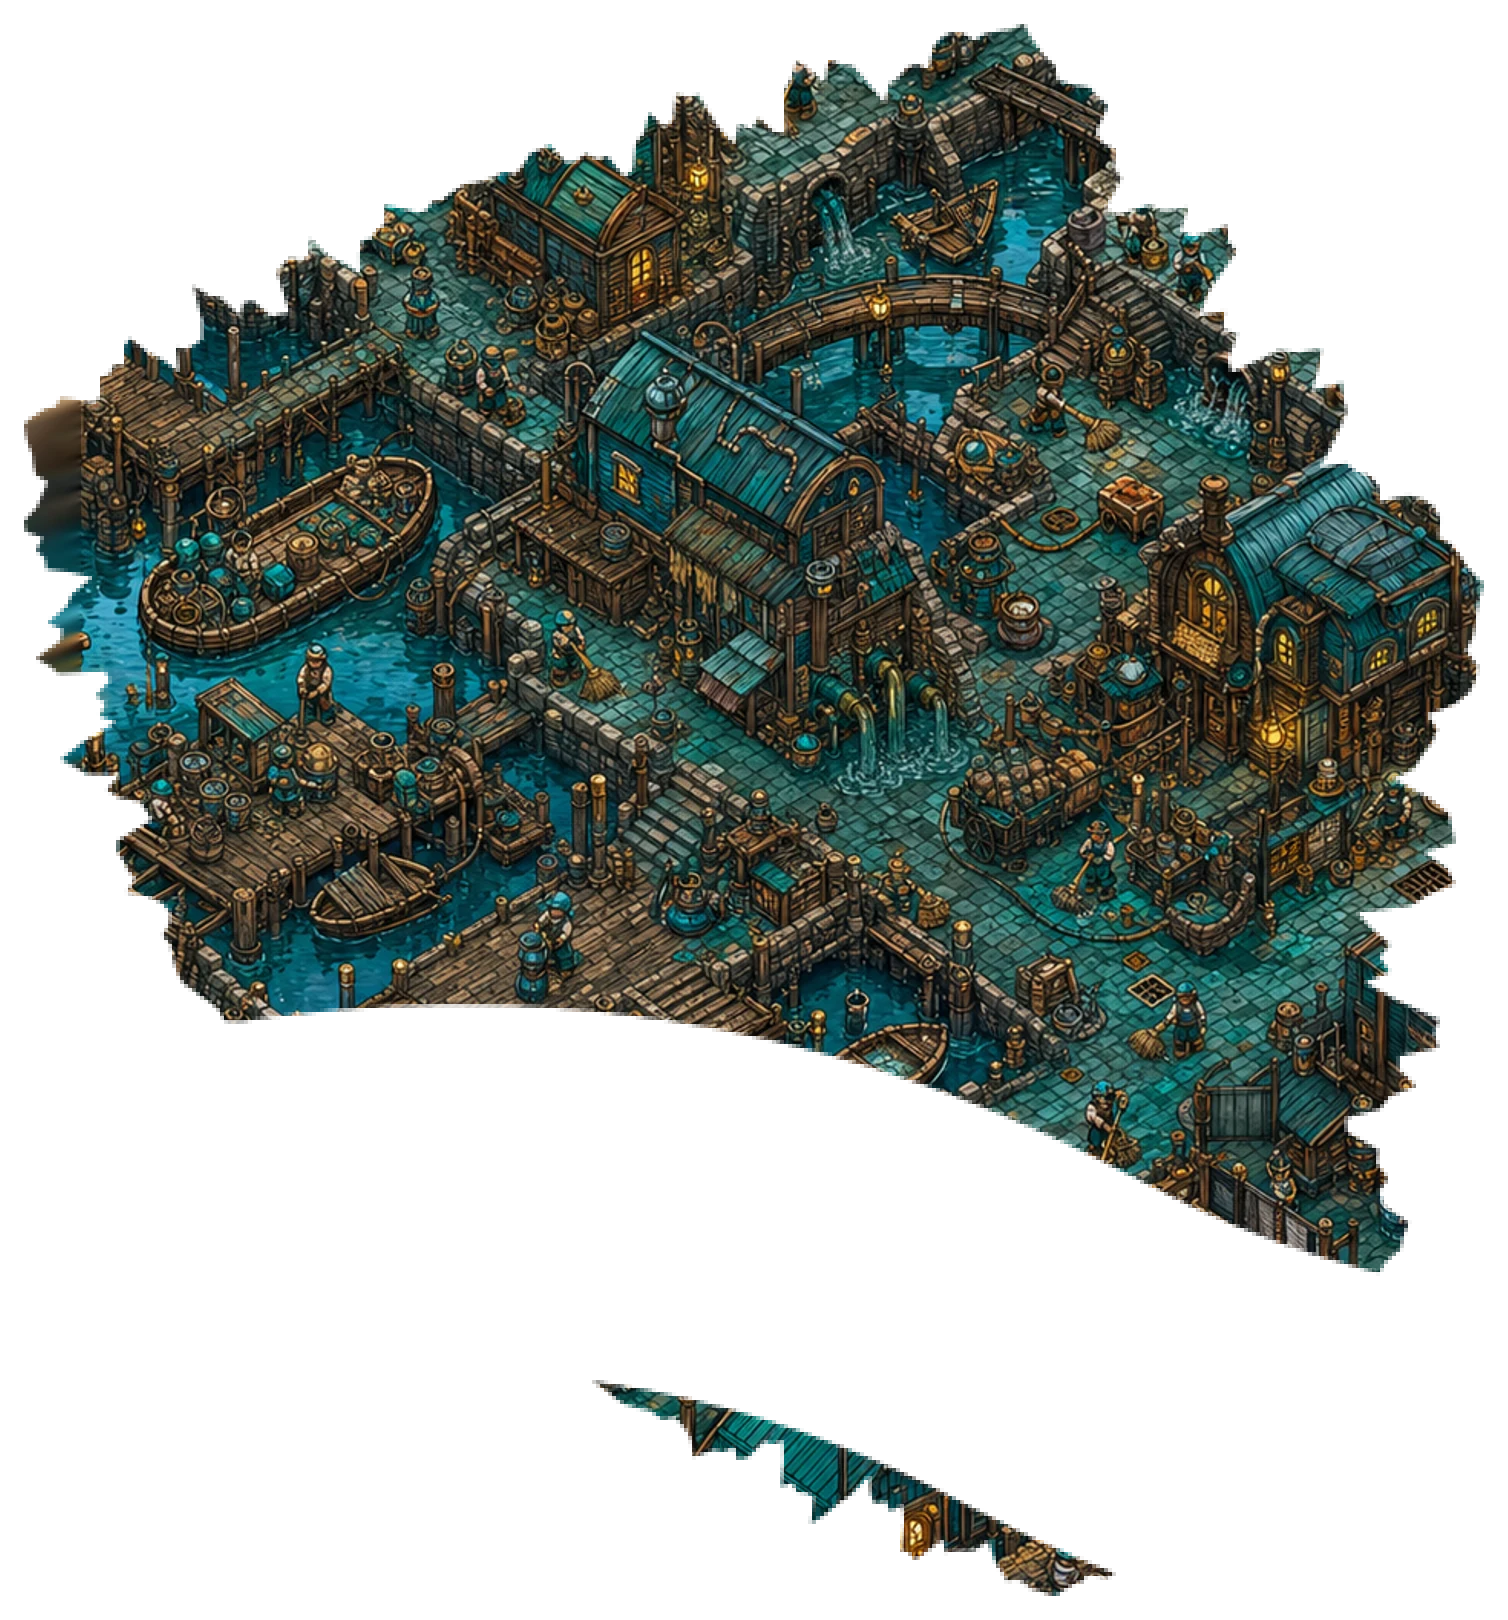
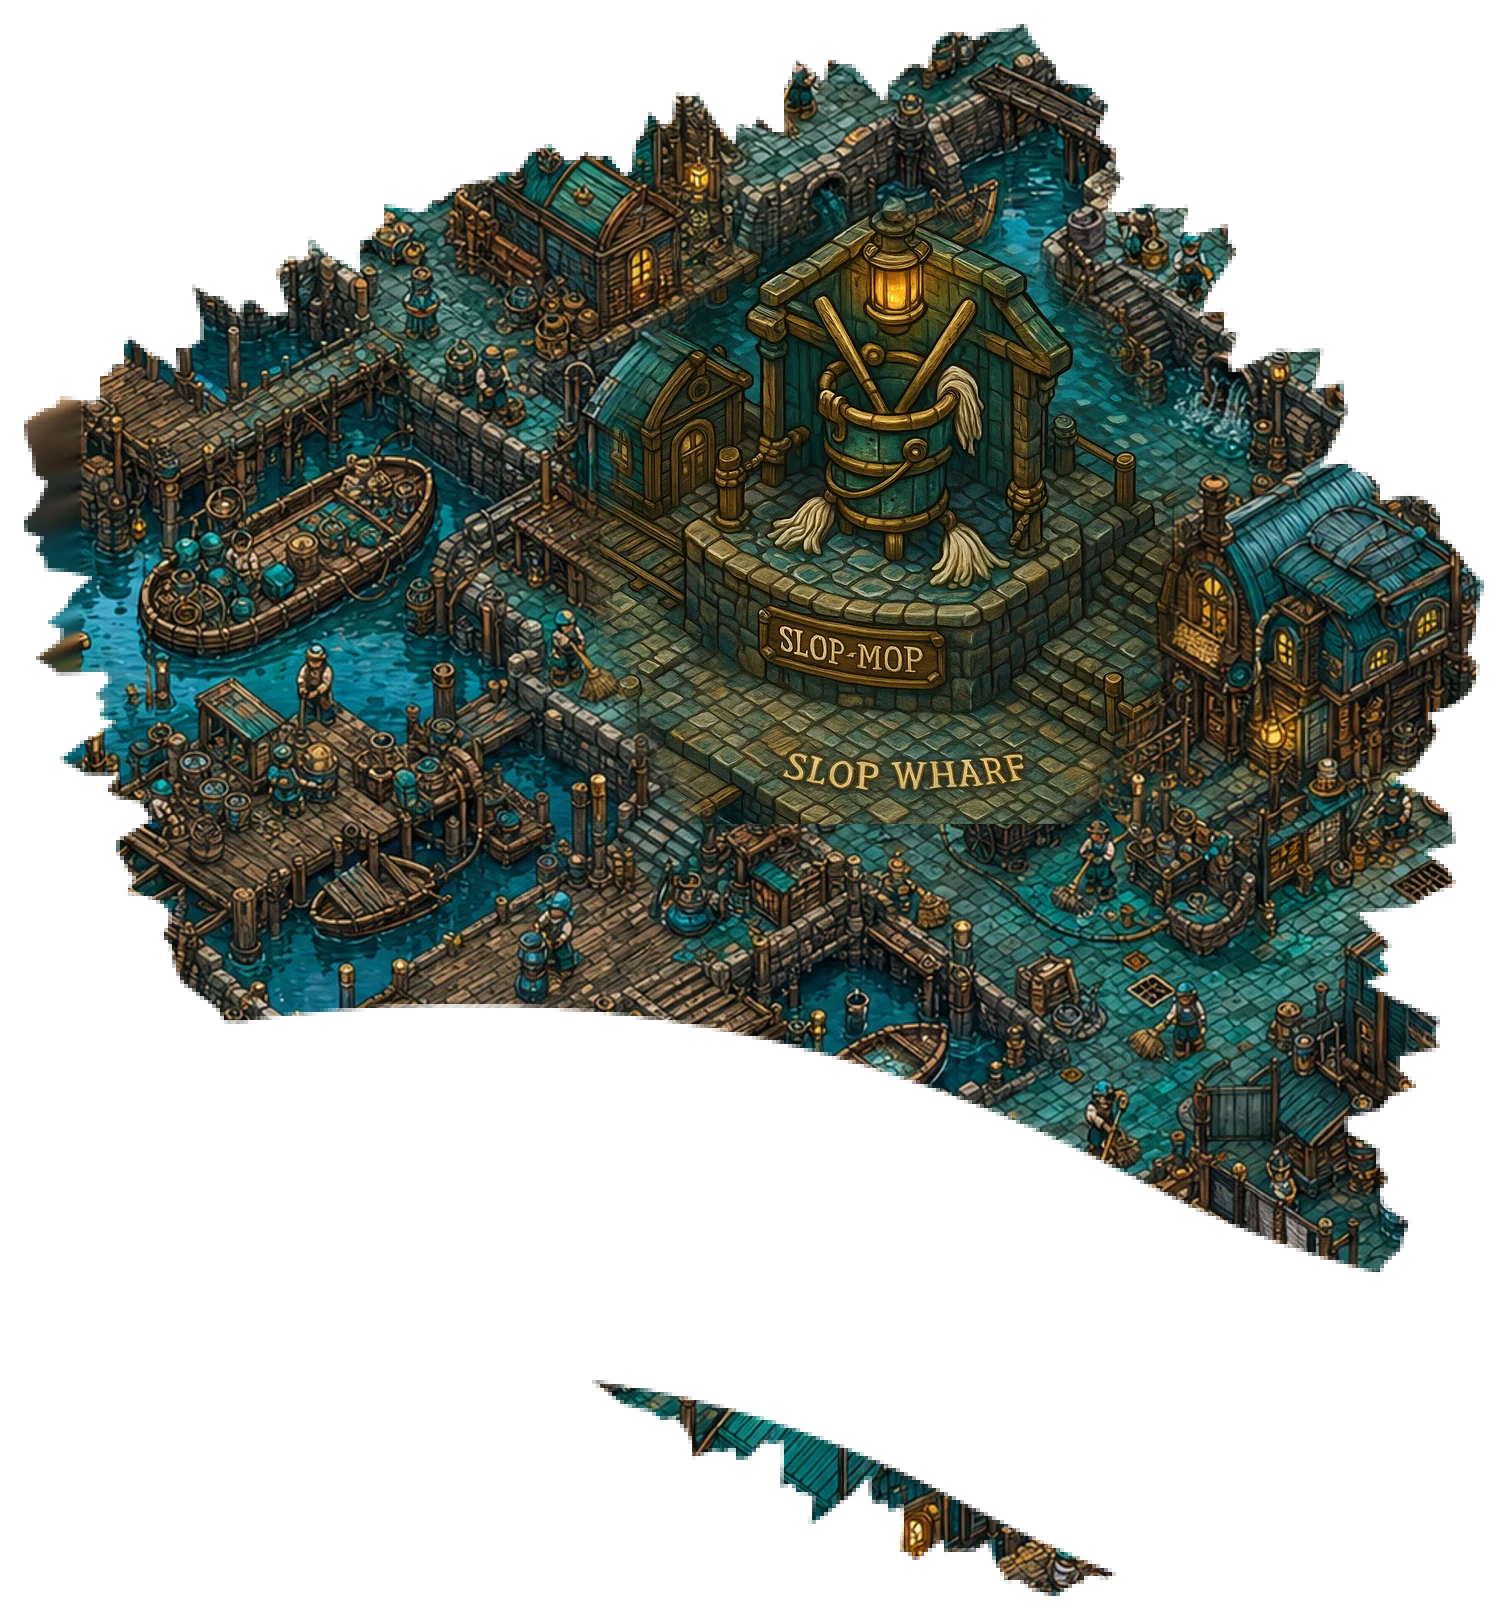
feat: add Slop Wharf landmark
- regenerate the Slop Wharf district layer with the Slop-Mop inpaint
- fix the district inpaint script to use the Ganglia Studio venv Python
- sync the status packets with the new Slop Wharf pass

Changed region(s): [[0.374, 0.1235, 0.7792, 0.5247]]

diff --git a/STATUS.md b/STATUS.md
@@ -1,7 +1,7 @@
 <!-- willville
-doing: Zeitgeist inpaint pass in progress after closing out the Gates of Hell halo work
-done: fixed the masked-edit polarity, regenerated the Gates of Hell halo plates, and confirmed the corrected underlays live
-next: finish the Zeitgeist plates and reload the district view for a final pass
+doing: Slop Wharf inpaint pass wrapped and the district layer is live
+done: fixed the masked-edit polarity, regenerated the Gates of Hell halo plates, finished the Zeitgeist plates, and added the Slop Wharf landmark pass
+next: keep the inpaint rail ready for the next district that needs a similar treatment
 risk: low
 milestone: Glyph halo integration
 eta: 2026-05-27
@@ -9,7 +9,14 @@ eta: 2026-05-27
 
 # Status
 
-## In Progress (2026-05-27) — Zeitgeist Inpaint Plates Are Being Regenerated
+## Done (2026-05-27) — Slop Wharf Landmark Pass Is Live
+
+- Ran the existing Slop Wharf site-inpaint rail on the Slop-Mop landmark and regenerated the district layer from the new masked-edit path.
+- Fixed the site-inpaint script to prefer the Ganglia Studio venv Python instead of the global interpreter so the district pass could actually execute.
+- Confirmed the live Slop Wharf route reloads against the regenerated inpainted district layer with the new landmark visible.
+- Validation: `GANGLIA_STUDIO_DIR=/Users/pacey/Documents/SourceCode/ganglia_repos/ganglia-core/ganglia-studio node scripts/apply-town-site-inpaints.mjs --district=slop-wharf` completed successfully after the Python fallback fix; `./scripts/deploy_app.sh` rebuilt and served the updated district on `http://127.0.0.1:3740/`; the live Slop Wharf stop page reloaded cleanly with the new layer.
+
+## Done (2026-05-27) — Zeitgeist Inpaint Plates Regenerated
 
 - Started the Zeitgeist set on the new masked inpaint rail after finishing the Gates of Hell halo fixup.
 - Regenerated the Zeitgeist halo plates for ChronicChronicler, fogofdog-frontend, loopcloser, and razer-ripple using the same district-clipped editing path.
